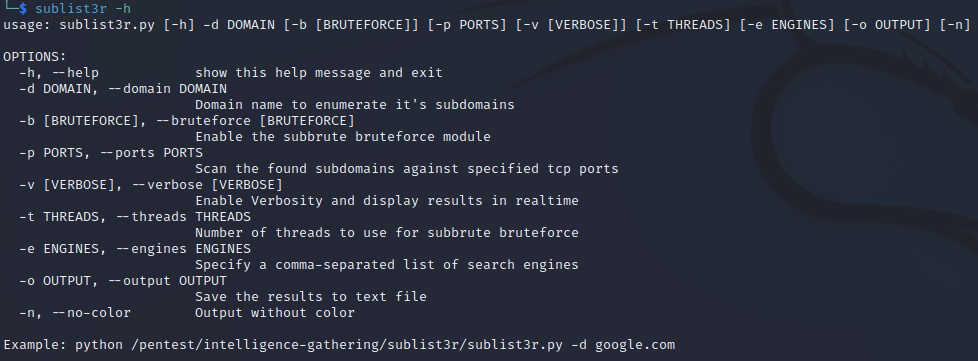
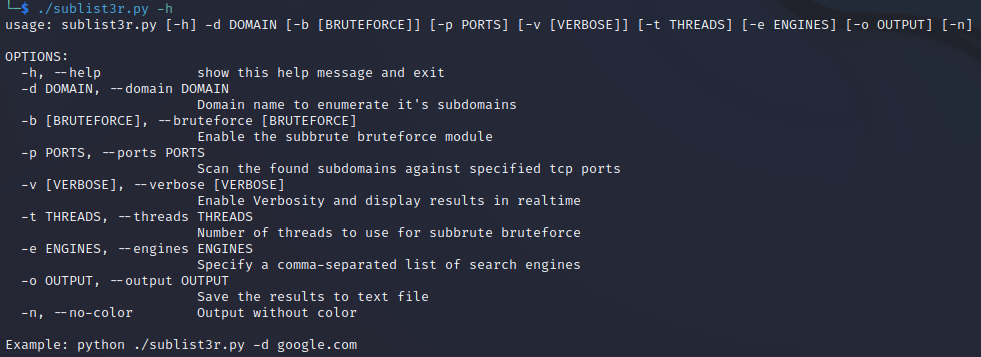
sublist3r

diff --git a/_posts/#2022-08-05-day_047_sublist3r.md b/_posts/#2022-08-05-day_047_sublist3r.md
@@ -61,26 +61,69 @@ During the OSINT gathering aspect of penetration testing an analyst may gather a
 
 ### 5. **How to use Sublist3r?**
 
-Using Sublist3r is very easy, you must have the dependency python3-pip installed to install Sublist3r, find instructions on installing pip [here](https://linuxconfig.org/how-to-install-pip-on-kali-linux).
+In order to use Sublist3r you must have the dependency python3-pip installed to install Sublist3r, find instructions on installing pip [here](https://linuxconfig.org/how-to-install-pip-on-kali-linux).
+
+You must have a VirusTotal API key which can be found [here](https://www.virustotal.com/gui/my-apikey).
+
+you will need to download a forked and fixed version of the pythong file ins tep 
 
     Step 1:
     Install Sublist3r by entering the following command in your terminal:
 
-`git clone https://github.com/aboul3la/Sublist3r.git && cd Sublist3r && sudo pip3 install -r requirements.txt`
+`git clone https://github.com/aboul3la/Sublist3r.git && cd Sublist3r && pip3 install -r requirements.txt`
 
 This command will clone the GitHub repository where Sublist3r resides, change the directory into that cloned repository and install Sublist3r.
 
-![]()
+![](https://raw.githubusercontent.com/matthewomccorkle/matthewomccorkle.github.io/master/_posts/assets/100%20tools/sublist3r/sublist3r1.PNG)
+
+
+**Note:** The current version of Sublist3r searches VirusTotal, in order for this function to work we need to download a fixed version of the python script and add the VirusTotal API to our environment when running sublist3r.
 
     Step 2:
-    Using Sublist3r is easy, check out the help page by 
-    entering the following command:
+    In the directory from step 1 enter the following 
+    command in your terminal:
 
-    sublist3r -h
+`rm -rf sublist3r.py && wget https://raw.githubusercontent.com/aboul3la/Sublist3r/3cb826c2f36f4972dfd286c704efc07de3a7f94c/sublist3r.py && chmod +x sublist3r.py`
 
+This should have downloaded a new version of sublist3r.py while also removing the old version and giving the new version executable permissions. 
+
+<br>
+
+![]()
+
+    Step 3:
+    Enter the following command to export the virus total API key:
+
+    export VT_APIKEY=YOUR_CUSTOM_API_KEY_HERE
+
+<br>
+
+![]()
+
+    Step 4:
+    Check out the help page by entering the following command:
+
+    ./sublist3r.py -h
+
+<br>
+
+![](https://raw.githubusercontent.com/matthewomccorkle/matthewomccorkle.github.io/master/_posts/assets/100%20tools/sublist3r/sublist3r2.PNG)
+
+    Step 5:
+    Search for subdomains  using Sublist3r by entering the following command:
+
+    ./sublist3r.py -d github.com 
+
+<br>
+
+![]()
+
+
+**Note:** currently you need to export the Virus Total API key before running Sublist3r in a new terminal window. You can add the API key to your bash script by following the advice found [here](https://github.com/aboul3la/Sublist3r/issues/194#:~:text=inside%20the%20sublist3r-,crahan,on%20Nov%2029%2C%202020,-I%20use%20the).
 
 ### 6. **Summary**
 
+Sublist3r is a useful OSINT tool for discovering Subdomains of an organization. Penetration testers may use Sublist3r when finding avenues of approach for reconnaissance and future attack. 
 
 I hope you enjoyed this blog post.
 
